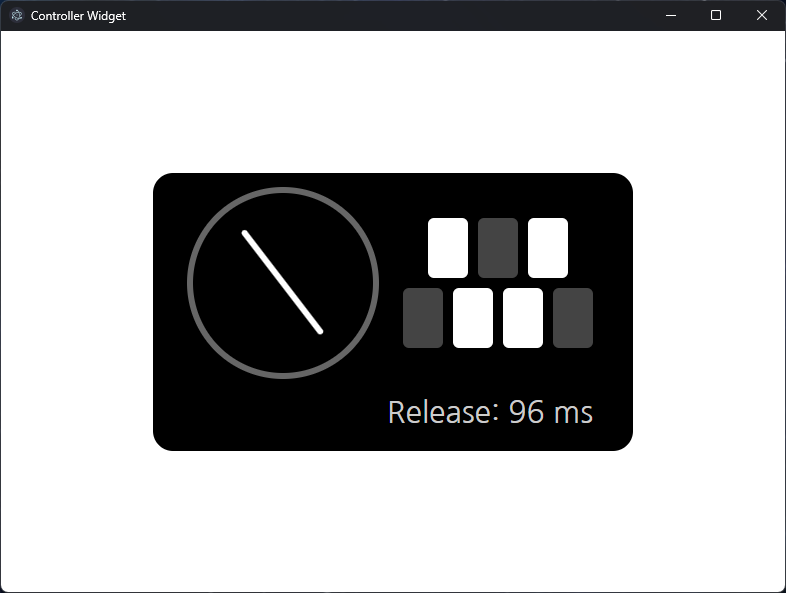
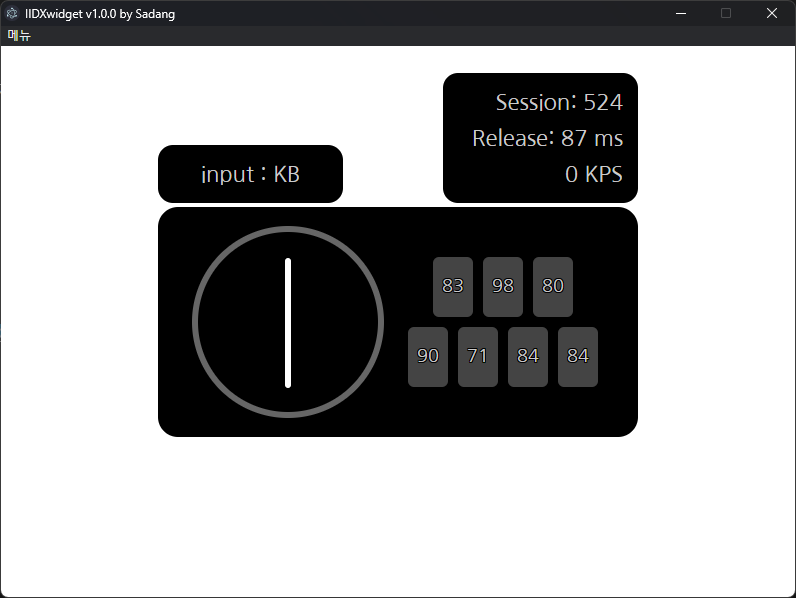
update readme.md

Changed region(s): [[0.1832, 0.1214, 0.8244, 0.7589], [0.0, 0.0, 1.0, 0.0911]]

diff --git a/README.md b/README.md
@@ -14,7 +14,7 @@
 
 - 스크래치의 입력 방향과 버튼 입력을 실시간으로 시각화하여 보여줍니다.
 - 버튼이 눌렸다가 떼지는 데에 소요된 시간을 ms 단위로 측정하여 평균을 내줍니다. 현재 마지막 200회 입력에 대한 이동평균으로 설정되어 있습니다. (추후 커스터마이징 지원 예정)
-- 현재 피닉스완(주작콘) 1P 사이드만 지원합니다. 다른 콘 지원 계획은 없습니다. (콘 빌려주시면 추가해드림)
+- 현재 피닉스완(주작콘) 및 키보드 입력을 지원합니다.
 - 직접 컨트롤러 매핑을 가능하게 하는 방안은 고려 중입니다.
 ---
 ## 사용 방법
@@ -29,7 +29,8 @@
      `http://127.0.0.1:8080/widget/`
    - **투컴 방송**이라면:  
      `http://[리듬 게임 실행 컴퓨터의 IP]:8080/widget/`
-   을 OBS의 **브라우저 소스**로 추가합니다.
+   을 OBS의 **브라우저 소스**로 추가합니다. 
+   - 이 때, 포트는 설정에서 커스터마이징이 가능합니다. 기본값은 8080입니다.
 
 3. 🎮 방송 시작
    - 즐겜하세요! 성과 많이 뽑으세요 😊
@@ -39,12 +40,12 @@
 ## 업데이트 이력
 
 - 0.1.0 : 최초 릴리즈
+- 1.0.0 : 정식 출시 ([패치 내역](https://github.com/Coldlapse/IIDXwidget/releases/tag/v1.0.0))
+
 ---
 
 ## TODO
 
-- 2P 지원
 - PC 실행시 트레이로 자동 실행 기능 구현
 - 원본 라그 위젯처럼 위젯 커스터마이징 기능 구현
-- "설정" 스크린 구현하여 해당 스크린에 커스터마이징 기능 및 기타 등등 추가
-- 위젯 실행 상태에서 컨트롤러가 뽑히는 경우에 대한 대책 마련 (현재는 종료 후 재실행이 대책입니다.)
+- Release 계산의 표본 갯수 커스터마이징 기능 구현
